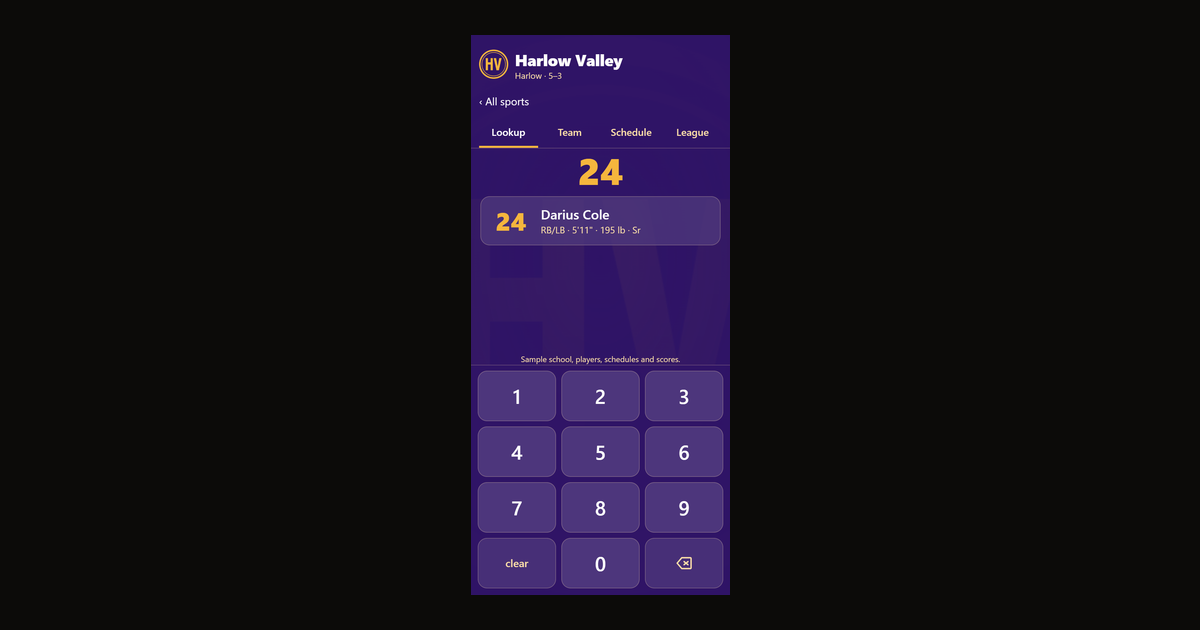
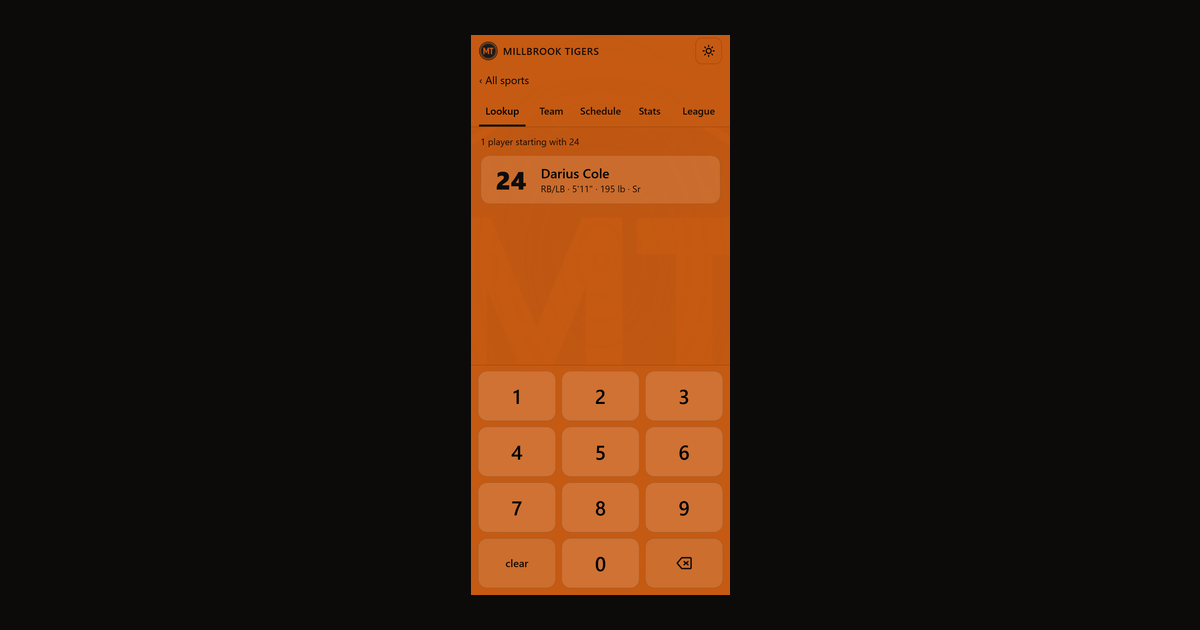
Show the Stats tab on the marketing site, with screens retaken from Millbrook
The app now carries season stats from MaxPreps for a team that keeps them, so the
page names them — marked Advanced, because a school that doesn't use MaxPreps won't
get them — and shows the demo's Stats tab as a fourth picture. The screens are taken
in dark mode, which is the school's own colors; headless browsers report light, and
the light page has been the default for them since it was added. The pinned page
test allows MaxPreps and stats now and still forbids the ideas that aren't built.

Changed region(s): [[0.37, 0.0302, 0.6167, 0.9651]]

diff --git a/marketing/index.html b/marketing/index.html
@@ -60,7 +60,7 @@
           </p>
         </div>
         <figure class="phone">
-          <img src="img/lookup.webp" width="390" height="844" alt="The Lookup screen: a jersey number typed on a keypad, and the player’s name, position and class above it." />
+          <img src="img/lookup.webp" width="390" height="844" alt="The Lookup screen: number 24 typed on a keypad, and the player wearing it above, with his position, size and class." />
         </figure>
       </section>
 
@@ -84,6 +84,7 @@
             <div><dt>Team</dt><dd>The full roster, searchable by name, number or position. Football also filters by offense, defense and special teams.</dd></div>
             <div><dt>Schedule</dt><dd>Every game, home and away: what’s coming up, and what’s been played.</dd></div>
             <div><dt>League</dt><dd>Football’s conference standings.</dd></div>
+            <div><dt>Stats <span class="tag">Advanced</span></dt><dd>Season stats and leaders, from your team’s MaxPreps page.</dd></div>
           </dl>
         </div>
       </section>
@@ -93,16 +94,20 @@
         <h2>A reason to open it every week.</h2>
         <div class="shots">
           <figure class="phone">
-            <img src="img/team.webp" width="390" height="844" loading="lazy" alt="The Team screen: a search box, and the roster listed by jersey number with position and class." />
+            <img src="img/team.webp" width="390" height="844" loading="lazy" alt="The Team screen: a search box and offense, defense and special-teams filters, then the roster by jersey number with each player’s size, class and position." />
             <figcaption><strong>Team</strong> Search by name, number or position.</figcaption>
           </figure>
           <figure class="phone">
-            <img src="img/schedule.webp" width="390" height="844" loading="lazy" alt="The Schedule screen: the next game with its kickoff time and forecast, then the games already played with their scores." />
+            <img src="img/schedule.webp" width="390" height="844" loading="lazy" alt="The Schedule screen: the next game with its kickoff time and forecast, the games still to come, then the games already played with their scores." />
             <figcaption><strong>Schedule</strong> The next game first, with the weather at kickoff.</figcaption>
           </figure>
           <figure class="phone">
             <img src="img/league.webp" width="390" height="844" loading="lazy" alt="The League screen: a conference standings table with each school’s conference and overall record." />
             <figcaption><strong>League</strong> Football’s conference standings, kept current through the season.</figcaption>
+          </figure>
+          <figure class="phone">
+            <img src="img/stats.webp" width="390" height="844" loading="lazy" alt="The Stats screen: season leaders in passing, rushing and receiving, each player’s jersey number beside his yards, touchdowns and attempts." />
+            <figcaption><strong>Stats <span class="tag">Advanced</span></strong> Season leaders and every player’s line, from MaxPreps.</figcaption>
           </figure>
         </div>
         <p class="fine">Screens show a sample school. Nobody on them is real.</p>
@@ -189,6 +194,7 @@
           <li>Setup from your sheet and calendar</li>
           <li>Your colors and crest</li>
           <li>Conference standings for football</li>
+          <li>Season stats, where your team keeps them on MaxPreps</li>
           <li>Hosting and updates all season</li>
           <li>QR code and print-ready flyer</li>
           <li>Support by email</li>

diff --git a/marketing/site.css b/marketing/site.css
@@ -279,6 +279,23 @@ strong {
   margin: 0;
 }
 
+/* A small mark after a feature's name for one that not every school gets —
+   Stats needs the team to keep its numbers on MaxPreps. It sits on the
+   word's line in whatever heading font is around it, so it sets its own. */
+.tag {
+  display: inline-block;
+  margin-left: 0.5em;
+  padding: 0.2em 0.5em 0.15em;
+  border: 1px solid var(--ember);
+  border-radius: 3px;
+  color: var(--ember-hot);
+  font: 500 0.62rem/1.2 var(--f-mono);
+  letter-spacing: 0.14em;
+  text-transform: uppercase;
+  vertical-align: 0.2em;
+  white-space: nowrap;
+}
+
 /* --------------------------------------------------------------- phones */
 
 .phone {
@@ -441,11 +458,19 @@ strong {
   .ticks {
     grid-template-columns: repeat(2, minmax(0, 1fr));
   }
+  /* Four phones: two by two until all four fit across without shrinking
+     the screens past reading. */
   .shots {
-    grid-template-columns: repeat(3, minmax(0, 1fr));
+    grid-template-columns: repeat(2, minmax(0, 1fr));
   }
   .steps {
     grid-template-columns: repeat(2, minmax(0, 1fr));
+  }
+}
+
+@media (min-width: 1100px) {
+  .shots {
+    grid-template-columns: repeat(4, minmax(0, 1fr));
   }
 }
 

diff --git a/src/marketing/site.test.ts b/src/marketing/site.test.ts
@@ -67,10 +67,12 @@ describe('the marketing page', () => {
     expect(selling).toContain('$1,200');
   });
 
+  // Stats from MaxPreps are a thing the app now does, and the page names them.
+  // The rest are still ideas, or another company's product, or a real school.
   it('promises nothing the app does not do, and names no real school', () => {
     for (const word of [
-      'Hudl', 'MaxPreps', 'stats', 'Region', 'rSchoolToday', 'ArbiterGame',
-      'DragonFly', 'Presented by', 'sponsor', 'Springfield', 'Tigers',
+      'Hudl', 'Region', 'rSchoolToday', 'ArbiterGame',
+      'DragonFly', 'Presented by', 'sponsor', 'Springfield',
     ]) {
       expect(text.toLowerCase().includes(word.toLowerCase()), word).toBe(false);
     }
@@ -83,7 +85,7 @@ describe('the marketing page', () => {
 
   it('gives every picture a size, a description and a file', () => {
     const imgs = [...html.matchAll(/<img\b[^>]*>/g)].map((m) => m[0]);
-    expect(imgs.length).toBeGreaterThanOrEqual(4);
+    expect(imgs.length).toBeGreaterThanOrEqual(5);
     for (const img of imgs) {
       expect(img, img).toMatch(/\balt="[^"]{8,}"/);
       expect(img, img).toMatch(/\bwidth="\d+"/);
